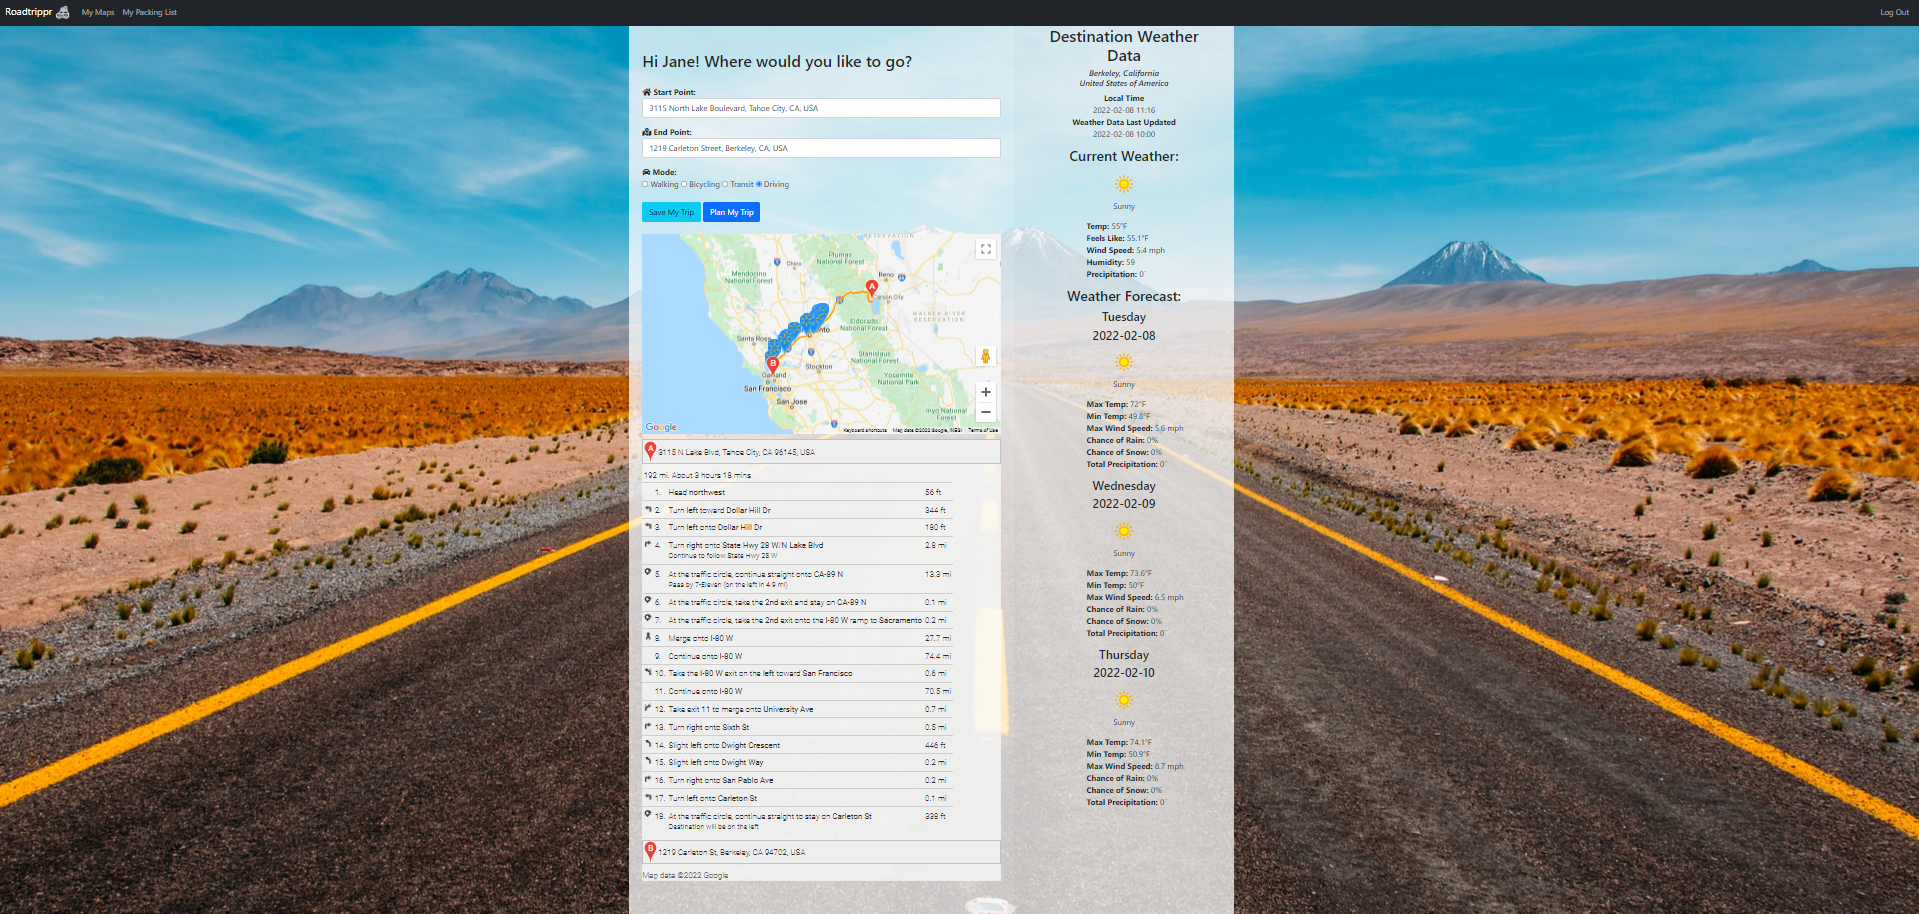
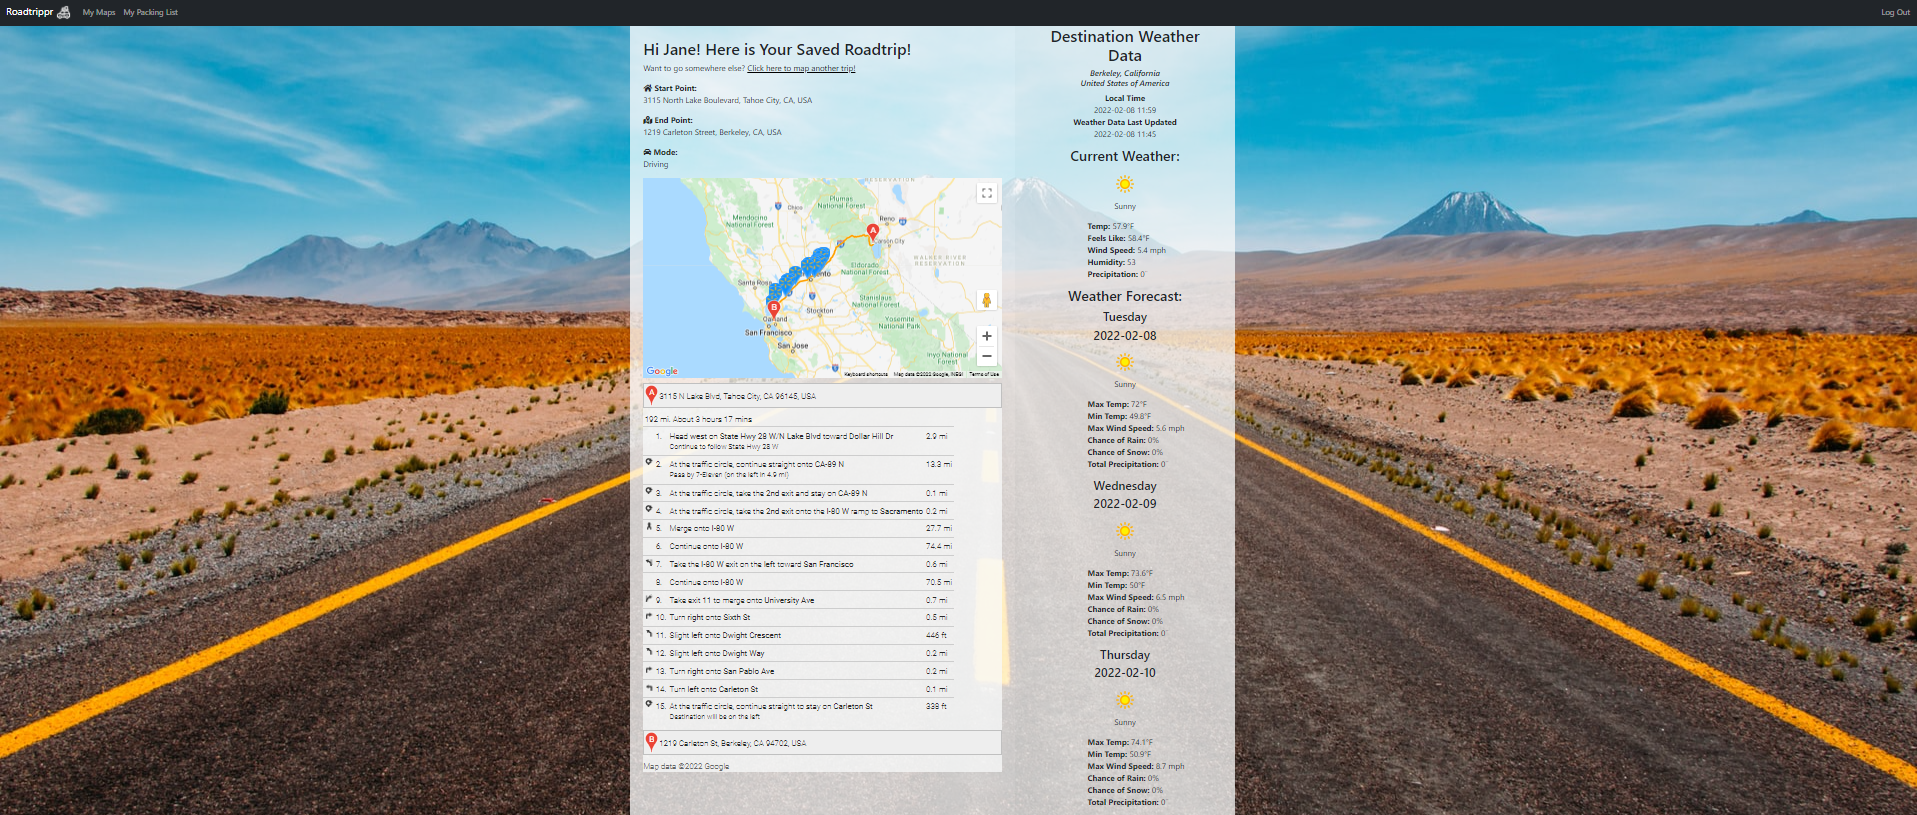
update readme and screenshots

diff --git a/README.md b/README.md
@@ -32,10 +32,10 @@ The main homepage displays an interface for the user to select the origin and de
 When the user clicks "Plan My Trip!", the app displays route timing, directions, store locations along the route, and destination weather data:
 <img src="https://github.com/stlee3102/capstone-project/blob/main/static/img/screenshot3.png" width="900">
 
-Store location pins in the map can be clicked to display store information:
+Users can mouseover store location markers on the map to see the store name and can click the marker to display store information:
 <img src="https://github.com/stlee3102/capstone-project/blob/main/static/img/screenshot3a.png" width="900">
 
-The main homepage after user account login welcomes the user by name and has a "Save My Trip" button:
+The main homepage after user account login welcomes the user by name and adds a "Save My Trip" button:
 <img src="https://github.com/stlee3102/capstone-project/blob/main/static/img/screenshot3b.png" width="900">
 
 User can register for an account to save maps and packing list information. Passwords are salted and hashed before storing in database to protect against database leaks:
@@ -47,7 +47,7 @@ If a user has an account already, the user can log in to the account:
 User maps can be saved, redisplayed, and deleted:
 <img src="https://github.com/stlee3102/capstone-project/blob/main/static/img/screenshot6.png" width="900">
 
-Maps can be re-displayed without having to re-enter origin and destination information:
+Maps can be re-displayed by clicking "Display Map" without having to re-enter origin and destination information:
 <img src="https://github.com/stlee3102/capstone-project/blob/main/static/img/screenshot7.png" width="900">
 
 User can save item data in a packing list (item name, category, and quantity), change the quantity of an item either by changing the number directly in the quantity box or by clicking up and down arrows to increase or decrease the quantity, check off whether the item has been packed, and delete items from their packing list:
